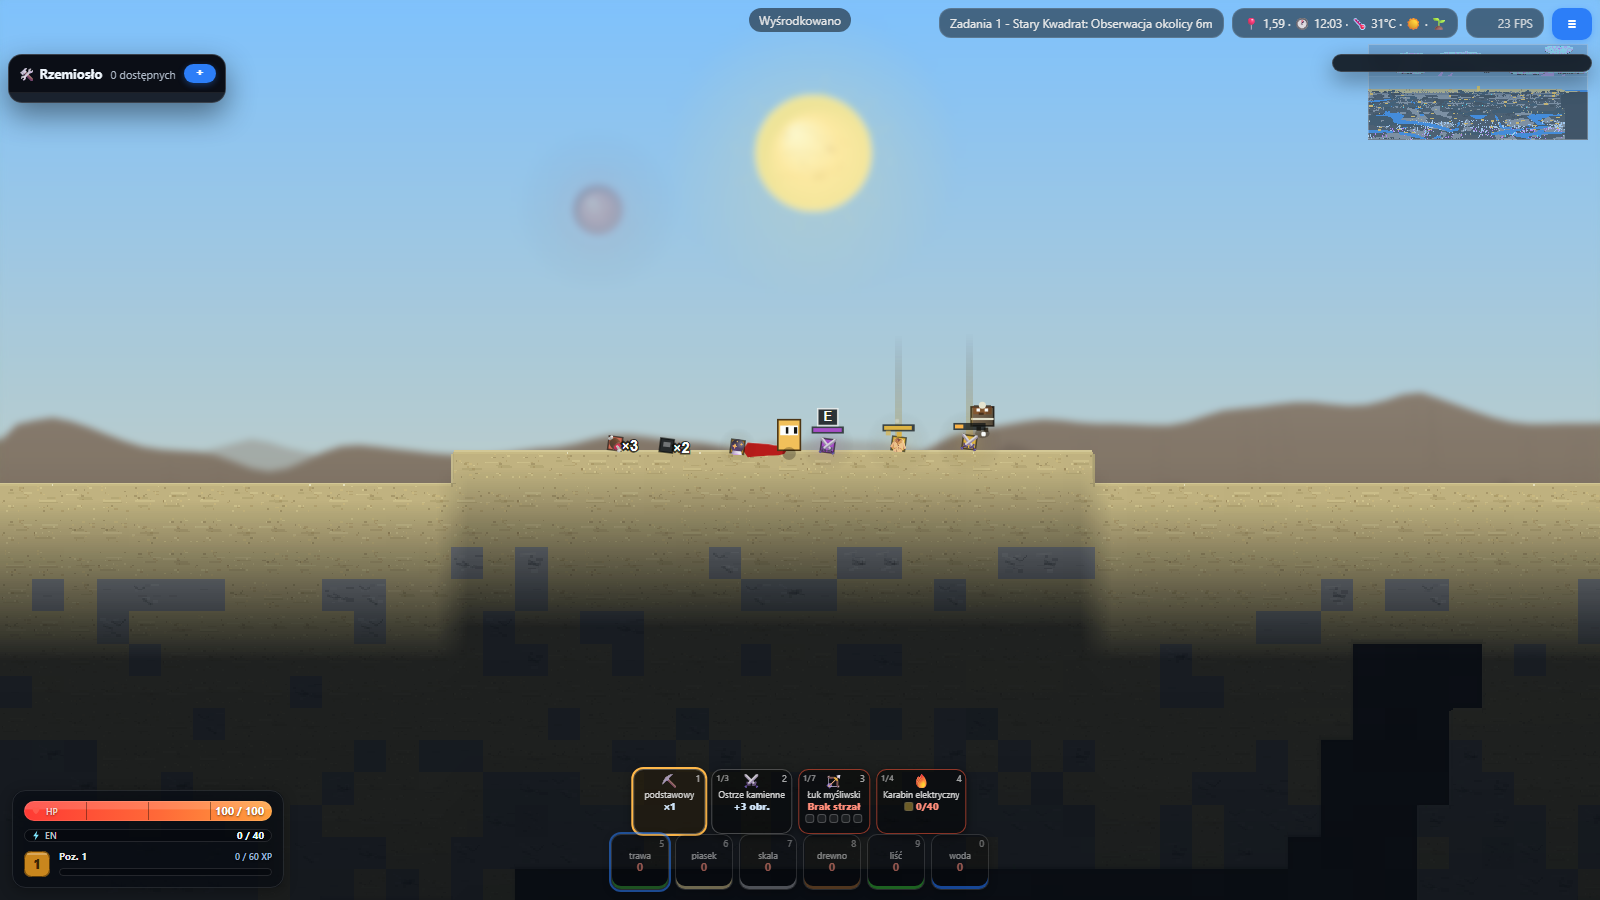
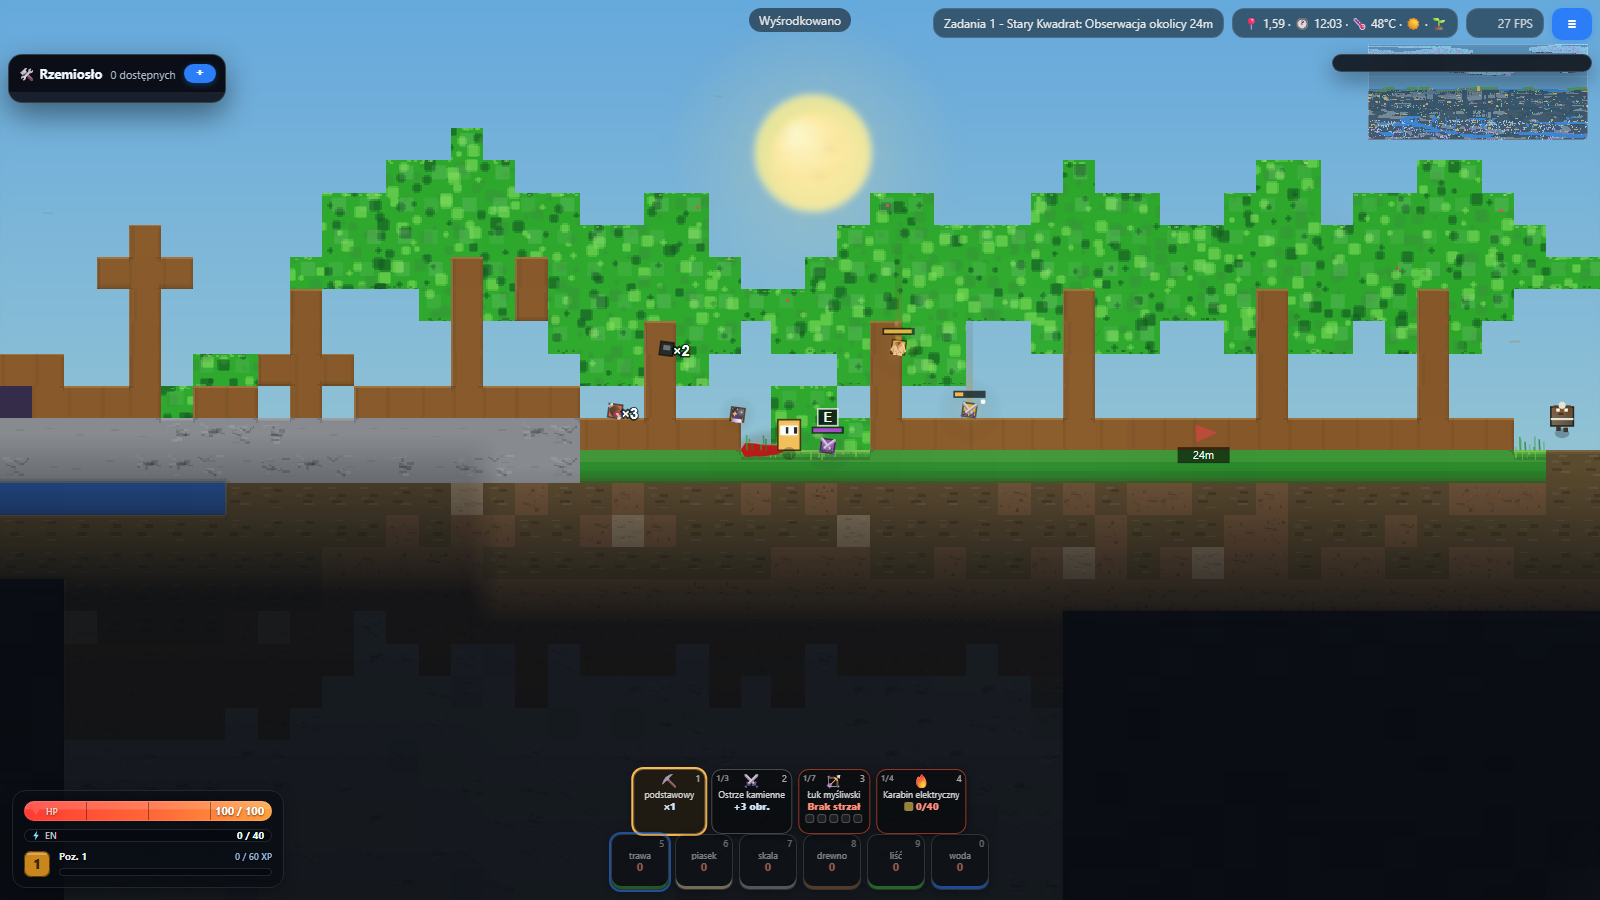
Add cursor loot preview and hold-E inventory gesture
Hovering a ground drop shows a corner card (#dropPreview) with name,
tier, stats and reach hint; LPM picks up exactly the hovered drop
(fog-gated, falls through to mining when out of reach). Short E now
belongs to the world (loot sweep, mech boarding) while holding E for
450ms opens the wardrobe, so loot underfoot cannot lock the player out.

diff --git a/src/main.js b/src/main.js
@@ -7727,7 +7727,7 @@ function buildWeaponTip(k){
 	if(!preview){
 		frag.appendChild(hudTipTitle(c.icon+' '+c.label));
 		frag.appendChild(hudTipNode('tipWarn','Brak broni w skrócie'));
-		frag.appendChild(hudTipNode('tipHint','Zaznacz „Skrót" przy broni w Ekwipunku (E)'));
+		frag.appendChild(hudTipNode('tipHint','Zaznacz „Skrót" przy broni w Ekwipunku (przytrzymaj E)'));
 		return frag;
 	}
 	frag.appendChild(hudTipTitle(c.icon+' '+(preview.name||preview.id), tierColors[preview.tier]||null));
@@ -8933,6 +8933,52 @@ function updateHoverInfo(){
 	hoverInfoEl.textContent=info.label;
 	hoverInfoEl.style.setProperty('--hover-color',info.color);
 	hoverInfoEl.classList.add('show');
+}
+// --- Ground-drop hover preview (PC): corner card for the loot under the cursor ---
+// drops.hoverAt runs once per frame here — it also drives the in-world highlight
+// ring; the card itself rebuilds only when the hovered drop/reach state changes.
+const dropPreviewEl=document.getElementById('dropPreview');
+let dropPreviewKey='';
+function hideDropPreview(){
+	if(dropPreviewKey!==''){ dropPreviewKey=''; dropPreviewEl.classList.remove('show'); dropPreviewEl.textContent=''; }
+}
+function dropPreviewNode(cls,text){ const n=document.createElement('div'); n.className=cls; if(text) n.textContent=text; return n; }
+function updateDropPreview(){
+	if(!dropPreviewEl || !DROPS || !DROPS.hoverAt) return;
+	const touch=document.documentElement.dataset.inputMode==='touch';
+	if(touch || !lastPointer.has || pinch || modalInputOpen()){
+		DROPS.hoverAt(NaN,NaN); // also clears the in-world highlight ring
+		hideDropPreview();
+		return;
+	}
+	const aim=screenToWorld(lastPointer.x,lastPointer.y);
+	const info=DROPS.hoverAt(aim.x,aim.y,player,{visible:worldFxVisible});
+	if(!info){ hideDropPreview(); return; }
+	const key=info.id+':'+(info.qty||1)+':'+(info.inReach?1:0);
+	if(key===dropPreviewKey) return;
+	dropPreviewKey=key;
+	dropPreviewEl.textContent='';
+	const INV=MM.inventory;
+	const tierColor=(INV && INV.TIER_COLORS && INV.TIER_COLORS[info.tier])||'#b07f2c';
+	dropPreviewEl.style.setProperty('--drop-tier',tierColor);
+	if(info.kind==='gear'){
+		const it=info.item||{};
+		const KIND_ICON={cape:'🧥', eyes:'👁️', outfit:'👕', weapon:'⚔️', charm:'🔮'};
+		const KIND_NAME={cape:'peleryna', eyes:'oczy', outfit:'strój', weapon:'broń', charm:'talizman'};
+		const TIER_NAME={common:'zwykły', rare:'rzadki', epic:'epicki'};
+		dropPreviewEl.appendChild(dropPreviewNode('dpTitle',(KIND_ICON[it.kind]||'🎁')+' '+(it.name||it.id||'Przedmiot')));
+		dropPreviewEl.appendChild(dropPreviewNode('dpSub',(KIND_NAME[it.kind]||it.kind||'')+' · '+(TIER_NAME[info.tier]||info.tier)+(INV&&INV.itemScore?' · Moc '+INV.itemScore(it):'')));
+		if(INV && INV.statChips){
+			const chips=document.createElement('div'); chips.className='dpChips';
+			INV.statChips(it).forEach(ch=>{ const c=document.createElement('span'); c.className='dpChip'; c.title=ch.label; c.textContent=ch.icon+' '+ch.text; chips.appendChild(c); });
+			if(chips.childNodes.length) dropPreviewEl.appendChild(chips);
+		}
+		if(it.desc) dropPreviewEl.appendChild(dropPreviewNode('dpDesc',it.desc));
+	} else {
+		dropPreviewEl.appendChild(dropPreviewNode('dpTitle',(info.glyph||'📦')+' '+(info.label||info.res)+(info.qty>1?' ×'+info.qty:'')));
+	}
+	dropPreviewEl.appendChild(dropPreviewNode('dpHint',info.inReach?'LPM podnosi · E zbiera wszystko w zasięgu':'Podejdź bliżej, aby podnieść'));
+	dropPreviewEl.classList.add('show');
 }
 // Kopanie (kierunkowe + wskazywane kursorem)
 const MINE_REACH=3; // Chebyshev tile distance for cursor mining
@@ -10279,6 +10325,13 @@ canvas.addEventListener('pointerdown',e=>{
 	const {tx,ty}=screenToWorldTile(e.clientX,e.clientY);
 	const weaponMode=!isToolMode();
 	if(e.button===0){
+		// Cursor loot grab (PC): clicking the hovered ground drop takes exactly that
+		// one (the corner preview announces it first). 'far' falls through, so the
+		// click still mines/fires toward a drop that's out of reach.
+		if(e.pointerType!=='touch' && DROPS && DROPS.pickupAt){
+			const aim=screenToWorld(e.clientX,e.clientY);
+			if(DROPS.pickupAt(aim.x,aim.y,player,{visible:worldFxVisible})==='picked'){ noteSaveActivity(); return; }
+		}
 		if(assignCompanionHarvestTargetAt(tx,ty)) return;
 		if(weaponMode){
 			weaponPointerId=e.pointerId;
@@ -13709,6 +13762,7 @@ let lastLoopErrAt=0; function loop(ts){
 		drawMs=framePerfNow()-drawT;
 		recordFramePerf(lastFrameMs,simMs,drawMs);
 		updateHoverInfo();
+		updateDropPreview();
 		updateWeaponGauges();
 		if(paused){
 			ctx.save();

diff --git a/src/engine/drops.js b/src/engine/drops.js
@@ -35,6 +35,8 @@ const drops = (function(){
   const RADIUS=0.18;            // collision half-extent in tiles
   const PICKUP_RADIUS=1.75;     // manual E reach
   const AUTO_RADIUS=2.35;       // auto-pickup magnet reach
+  const MOUSE_HIT=0.55;         // cursor-over-drop hit radius (hover preview)
+  const MOUSE_PICKUP_RADIUS=3.0;// click-to-take reach (mirrors cursor mining)
   const COLLECT_DIST=0.55;
   const MAGNET_SPEED=9.5;       // tiles/s toward the hero while vacuumed
   const MERGE_DIST=0.85;        // settled same-resource piles merge
@@ -446,6 +448,42 @@ const drops = (function(){
     return !!nearestInReach(player,PICKUP_RADIUS);
   }
 
+  // --- cursor pickup (PC): hover previews a drop, a click takes exactly it ---
+  // opts.visible gates fog: an undiscovered drop neither previews nor grabs.
+  let hoverDrop=null; // draw() highlights this one (set fresh each frame by hoverAt)
+  function dropAtPoint(wx,wy,opts){
+    if(!finiteNum(wx) || !finiteNum(wy)) return null;
+    const r2=MOUSE_HIT*MOUSE_HIT;
+    let best=null, bestD=Infinity;
+    for(const d of list){
+      const dx=d.x-wx, dy=d.y-wy;
+      const dd=dx*dx+dy*dy;
+      if(dd<=r2 && dd<bestD){ bestD=dd; best=d; }
+    }
+    if(best && opts && typeof opts.visible==='function' && !opts.visible(Math.floor(best.x),Math.floor(best.y))) return null;
+    return best;
+  }
+  // Preview payload for the corner panel: enough to render name/tier/stats
+  // without handing the caller the live entity.
+  function hoverAt(wx,wy,player,opts){
+    const d=dropAtPoint(wx,wy,opts);
+    hoverDrop=d;
+    if(!d) return null;
+    const inReach=!!(player && finiteNum(player.x) && dist2ToPlayer(d,player)<=MOUSE_PICKUP_RADIUS*MOUSE_PICKUP_RADIUS);
+    const info={id:d.id, kind:d.kind, tier:d.tier, x:d.x, y:d.y, qty:d.qty, inReach};
+    if(d.kind==='gear') info.item=Object.assign({},d.item);
+    else { info.res=d.res; info.label=resourceLabel(d.res); info.glyph=d.glyph; info.color=d.color; }
+    return info;
+  }
+  // Selective grab: 'picked' consumed the click, 'far' means walk closer
+  // (the caller lets the click fall through to mining/attacking), null = no drop.
+  function pickupAt(wx,wy,player,opts){
+    const d=dropAtPoint(wx,wy,opts);
+    if(!d) return null;
+    if(!player || !finiteNum(player.x) || dist2ToPlayer(d,player)>MOUSE_PICKUP_RADIUS*MOUSE_PICKUP_RADIUS) return 'far';
+    return collect(d) ? 'picked' : null;
+  }
+
   // --- simulation -----------------------------------------------------------
   function stepPhysics(d,dt,getTile){
     const here=getSafe(getTile,d.x,d.y);
@@ -700,6 +738,12 @@ const drops = (function(){
         ctx.fillRect(-s/2+2,-s/2+2,s-4,3);
       }
       ctx.restore();
+      // cursor hover: a breathing ring says "this one previews in the corner"
+      if(hoverDrop===d){
+        const hr=s*0.95+Math.sin(now*0.008)*1.2;
+        ctx.strokeStyle='rgba(255,255,255,0.85)'; ctx.lineWidth=1.5;
+        ctx.beginPath(); ctx.arc(px,py,hr,0,Math.PI*2); ctx.stroke();
+      }
       // ticking-bomb bar: rare+ gear wears its remaining time on its sleeve
       if(d.kind==='gear' && d.tier!=='common'){
         const frac=Math.max(0,Math.min(1,left/lifetime));
@@ -785,19 +829,19 @@ const drops = (function(){
       }
     }
   }
-  function reset(){ list.length=0; mergeT=0; dry=0; sacrificeDry=0; }
+  function reset(){ list.length=0; mergeT=0; dry=0; sacrificeDry=0; hoverDrop=null; }
 
   const api={
     update,draw,
     spawnResource,spawnGear,rollGearDrop,rollGuardianDrop,
-    pickupNearest,wantsInteractKey,
+    pickupNearest,wantsInteractKey,hoverAt,pickupAt,
     autoPickup,setAutoPickup,
     snapshot,restore,reset,
     metrics:()=>({active:list.length, autoPickup:autoPickup()}),
     _debug:{list, GEAR_LOOT, GUARDIAN_LOOT, dangerFor, rollTier, setRandom:(fn)=>{ rand=typeof fn==='function'?fn:Math.random; }, collect, nearestInReach,
       dryStreak:()=>dry, setDryStreak:(n)=>{ dry=Math.max(0,Math.floor(Number(n)||0)); },
       sacrificeDry:()=>sacrificeDry,
-      config:{MAX_DROPS,DESPAWN_SEC,GEAR_LIFE,GUARDIAN_RELIC_LIFE,PICKUP_RADIUS,AUTO_RADIUS,COLLECT_DIST,MERGE_DIST,SIDEKICK_DROP_CHANCE,SIDEKICK_EPIC_CHANCE,PITY_KILLS,SACRIFICE_BASE,SACRIFICE_STEP,SACRIFICE_MAX}}
+      config:{MAX_DROPS,DESPAWN_SEC,GEAR_LIFE,GUARDIAN_RELIC_LIFE,PICKUP_RADIUS,AUTO_RADIUS,COLLECT_DIST,MERGE_DIST,MOUSE_HIT,MOUSE_PICKUP_RADIUS,SIDEKICK_DROP_CHANCE,SIDEKICK_EPIC_CHANCE,PITY_KILLS,SACRIFICE_BASE,SACRIFICE_STEP,SACRIFICE_MAX}}
   };
   MM.drops=api;
   return api;

diff --git a/src/inventory_ui.js b/src/inventory_ui.js
@@ -1084,6 +1084,22 @@ import './inventory.js';
   if(closeBtn) closeBtn.addEventListener('click',close);
   overlay.addEventListener('click',e=>{ if(e.target===overlay) close(); });
   function isEditableTarget(t){ if(!t || !t.tagName) return false; const tag=t.tagName; return tag==='INPUT'||tag==='TEXTAREA'||tag==='SELECT'||t.isContentEditable; }
+  // Hold-to-open: a short E tap belongs to the world (ground-drop sweep, mech
+  // boarding — see the precedence probes below), but HOLDING E for a beat
+  // always lands in the wardrobe, so loot underfoot can't lock the player out.
+  const E_HOLD_MS=450;
+  let eHoldTimer=null;
+  function cancelEHold(){ if(eHoldTimer!=null){ clearTimeout(eHoldTimer); eHoldTimer=null; } }
+  function armEHold(){
+    cancelEHold();
+    eHoldTimer=setTimeout(()=>{
+      eHoldTimer=null;
+      // fire only into a free screen: another modal (loot inbox, trader…) wins
+      if(!isOpen() && !(MM.modalInput && MM.modalInput.isOpen())) open();
+    },E_HOLD_MS);
+  }
+  window.addEventListener('keyup',e=>{ if(e.key.toLowerCase()==='e') cancelEHold(); });
+  window.addEventListener('blur',cancelEHold);
   window.addEventListener('keydown',e=>{
     if(isOpen()){
       if(e.key==='Escape'){
@@ -1094,7 +1110,8 @@ import './inventory.js';
         } else close();
         e.stopImmediatePropagation(); return;
       }
-      if(!isEditableTarget(e.target) && e.key.toLowerCase()==='e' && !e.ctrlKey && !e.metaKey && !e.altKey){ e.preventDefault(); close(); e.stopImmediatePropagation(); return; }
+      // !repeat: the still-held E that hold-opened the panel must not close it
+      if(!isEditableTarget(e.target) && !e.repeat && e.key.toLowerCase()==='e' && !e.ctrlKey && !e.metaKey && !e.altKey){ e.preventDefault(); close(); e.stopImmediatePropagation(); return; }
       if(!isEditableTarget(e.target) && e.key==='/'){
         e.preventDefault();
         if(searchInput){ searchInput.focus(); searchInput.select(); }
@@ -1111,7 +1128,8 @@ import './inventory.js';
       return;
     }
     if(isEditableTarget(e.target)) return;
-    if(e.key.toLowerCase()==='e' && !e.ctrlKey && !e.metaKey && !e.altKey){
+    if(!e.repeat && e.key.toLowerCase()==='e' && !e.ctrlKey && !e.metaKey && !e.altKey){
+      armEHold(); // holding past the tap window opens the wardrobe regardless
       // Machine context wins the interaction key: riding a mech, standing next
       // to a boardable hull or on a pilot chair routes E to the mech handler
       // (main.js keydown) — the wardrobe only opens away from machines.
@@ -1123,6 +1141,7 @@ import './inventory.js';
         const drops=window.MM && MM.drops;
         if(drops && drops.wantsInteractKey && drops.wantsInteractKey(window.player)) return;
       }catch(err){ /* mech module absent: plain toggle */ }
+      cancelEHold(); // a plain tap opens right away — no need for the hold
       toggle();
     }
   });

diff --git a/index.html b/index.html
@@ -196,6 +196,17 @@
   #hoverInfo{ position:absolute; left:50%; bottom:128px; transform:translateX(-50%); pointer-events:none; opacity:0; transition:opacity .12s ease; display:flex; align-items:center; gap:6px; max-width:min(280px,70vw); padding:4px 9px; border-radius:999px; border:1px solid rgba(255,255,255,.16); background:rgba(4,9,16,.62); color:#f4f8ff; box-shadow:0 2px 10px rgba(0,0,0,.35); backdrop-filter:blur(4px); font-size:11px; line-height:1; white-space:nowrap; overflow:hidden; text-overflow:ellipsis; }
   #hoverInfo::before{ content:""; width:8px; height:8px; flex:none; border-radius:2px; background:var(--hover-color,#9fb8d1); border:1px solid rgba(255,255,255,.35); box-shadow:0 0 8px var(--hover-glow,rgba(159,184,209,.35)); }
   #hoverInfo.show{ opacity:.92; }
+  /* Ground-drop hover preview: corner card built by updateDropPreview (main.js) */
+  /* right of the top bar, left of the minimap (W-232..W-12 @ y 44..140) and the
+     craft tracker (right:8 top:54) — the only top corner no persistent UI claims */
+  #dropPreview{ position:absolute; right:244px; top:46px; pointer-events:none; opacity:0; transition:opacity .12s ease; display:flex; flex-direction:column; gap:4px; width:max-content; max-width:min(250px,60vw); padding:8px 10px; border-radius:10px; border:1px solid var(--drop-tier,rgba(255,255,255,.18)); background:rgba(10,14,22,.92); color:#eef4fb; font-size:11px; line-height:1.35; box-shadow:0 6px 18px rgba(0,0,0,.5); backdrop-filter:blur(6px); }
+  #dropPreview.show{ opacity:1; }
+  #dropPreview .dpTitle{ font-size:12px; font-weight:800; color:var(--drop-tier,#eef4fb); }
+  #dropPreview .dpSub{ font-size:10px; opacity:.85; }
+  #dropPreview .dpChips{ display:flex; flex-wrap:wrap; gap:4px; }
+  #dropPreview .dpChip{ border:1px solid rgba(255,255,255,.14); border-radius:999px; background:rgba(255,255,255,.07); padding:1px 6px; font-size:10px; white-space:nowrap; }
+  #dropPreview .dpDesc{ font-size:10px; font-style:italic; opacity:.75; }
+  #dropPreview .dpHint{ font-size:10px; color:#9fb2c6; }
   #hotbarWrap{ position:absolute; left:50%; bottom:10px; transform:translateX(-50%); display:flex; gap:6px; pointer-events:auto; }
   .hotSlot{ width:50px; height:50px; border:1px solid rgba(255,255,255,.25); background:rgba(0,0,0,.45); border-radius:10px; display:flex; flex-direction:column; align-items:center; justify-content:center; gap:1px; font-size:11px; position:relative; box-shadow:0 2px 8px rgba(0,0,0,.5); padding:2px 3px; }
   .hotSlot.sel{ outline:2px solid #2c7ef8; }
@@ -385,8 +396,8 @@
             <div class="hint">Mnożnik wysokości pojedynczych źdźbeł.</div>
           </div>
           <div class="group" style="flex-direction:column; align-items:stretch; margin-top:6px; border-top:1px solid rgba(255,255,255,.08); padding-top:6px;">
-            <button id="openInv" class="topbtn" role="menuitem" title="Ekwipunek (E)">Ekwipunek…</button>
-            <div class="hint">Sprzęt, bronie, talizmany i surowce (skrót E).</div>
+            <button id="openInv" class="topbtn" role="menuitem" title="Ekwipunek (przytrzymaj E)">Ekwipunek…</button>
+            <div class="hint">Sprzęt, bronie, talizmany i surowce (przytrzymaj E; krótkie E zbiera łupy z ziemi).</div>
           </div>
         </div>
       </div>
@@ -395,7 +406,7 @@
   <!-- topButtons replaced by dropdown menu; old markup removed -->
     <!-- Crafting panel is built dynamically from the RECIPES table in main.js -->
     <div id="craft"><strong>Rzemiosło</strong></div>
-    <div id="help"><b id="helpDiscoveries"></b>Sterowanie: A/D lub ←/→ ruch, W / ↑ / Spacja skok. LPM kopie klikniętą kratkę (zasięg 3) – przytrzymaj i przeciągaj, aby kopać dalej. Przycisk ⛏️ kopie w wybranym kierunku (przytrzymaj = kopanie ciągłe). PPM stawia blok (zasięg 5; wybór 5–9, 0 lub klik w pasek; drugi klik w wybrany slot zmienia typ). Kopanie wody zbiera ją do ekwipunku. Skróty broni: 1 = kilof/budowanie (kolejne wciśnięcia przełączają kilofy po craftingu), 2 = broń biała, 3 = DYSTANSOWE: łuki oraz rzuty z ręki (śnieżki, toksyczne śnieżki, kamienie, balony wodne, granaty gazowe, lepkie bomby) — kolejne wciśnięcia rotują, a klawisz pamięta ostatnio używaną broń, 4 = miotacze (ogień/woda/gaz) — kolejne wciśnięcia przełączają bronie w kategorii; w Ekwipunku przyciskiem „Skrót" wybierasz, które bronie biorą udział w przełączaniu. MATRYCA ŻYWIOŁÓW: MOKRY wróg (pływanie, deszcz, wąż, balon wodny) mocniej przewodzi prąd (a porażenie SKACZE łańcuchem po innych mokrych!) i ZAMARZA W BRYŁĘ od mrozu (np. śnieżek); ogień na zmrożonym = szok termiczny, ogień + trucizna = toksyczny zapłon, na mokrym ogień syczy i gaśnie, a wiązka elektryczna trafiając wodę elektryzuje CAŁĄ taflę. RODZAJE STRZAŁ mają charaktery: drewniane często da się podnieść z powrotem, kamienne ogłuszają, obsydianowe płoną przy pełnym naciągu, diamentowe przeszywają kilku wrogów, irydowe przebijają bloki (pip w pasku broni przypina typ). Trafienia i reakcje żywiołów ładują ULT szybciej; PPM tuż przed pociskiem wroga = PERFEKCYJNA PARADA (odbija pocisk!). Przy naciąganiu łuku strzałka nad głową pokazuje WIATR — znosi strzały. Z cofa zmianę. E otwiera Ekwipunek (sprzęt, bronie, talizmany, surowce), T zwija/rozwija panel Rzemiosła, I skrzynkę łupów, X używa skanera kraterów. Po wybraniu broni (2/3/4) LPM używa jej w kierunku kursora, a PPM odpala naładowany ult: broń biała tnie, łuk strzela strzałami (strzała przelatująca przez ogień płonie!), miotacz ognia podpala stwory i roślinność (ogień rozprzestrzenia się po trawie, drewnie i liściach; woda gasi). Żywioły: ogień gotuje wodę w parę zasilającą chmury, topi kamień w lawę i roztapia śnieg/lód w wodę; lawa PŁYNIE (wolniej niż woda, wyrównuje poziom), parzy i podpala, a osiadła na wolnym powietrzu z czasem zastyga w obsydian; wąż wodny gasi pożary, hartuje lawę w obsydian, rozmiękcza piasek w błoto (błoto spowalnia wszystkich o połowę) i podlewa rośliny; trujący gaz zabija organizmy, a w kontakcie z ogniem lub lawą EKSPLODUJE jak TNT (płonąca strzała też detonuje chmurę). WĘDKOWANIE: wytwórz wędkę (drewno + trawa), stań nad wodą i naciśnij F — gdy spławik drgnie (❗), F podcina; duże ryby szarpią 2–3 razy (F tylko przy ❗, za wczesne szarpnięcie płoszy!). Ryby = zupa rybna (+30 HP), złota rybka = Eliksir głębin; handlarz skupuje połów. Rośliny (słoneczniki, krzewy jagodowe, trzciny, paprocie, kaktusy) kiełkują przy wodzie, piją z sąsiednich kafli wody (czasem wchłaniając cały kafel!), z deszczu i z węża; rosną etapami, usychają bez wody i obumierają ze starości. Klik na dojrzały krzew jagodowy = +6 HP. M (Mapa) odsłania mgłę, N przełącza minimapę, B pauzuje. G (Bóg) natychmiastowe kopanie. C centruje kamerę. H pomoc. Zdobywasz XP i poziomy — punkty umiejętności wydasz w Ekwipunku (Rozwój); osiągnięcia nagradzają XP i skrzyniami. Rzemiosło: kilofy, pochodnie (światło nocą), miecz obsydianowy, talizman, totem odrodzenia (punkt respawnu), eliksiry (życie natychmiast; szybkość/siła to buffy 60 s widoczne przy pasku XP) i Róg przyzwania (wzywa bossa — drogo!). W panelu Rzemiosła gwiazdka ★ przypina ulubione receptury na górze, przycisk 📌 „Śledź" zawiesza licznik składników wybranej receptury na ekranie (powiadomi, gdy wszystko zbierzesz), filtr „Dostępne" pokazuje tylko to, co możesz wytworzyć teraz, a przy brakującym surowcu zobaczysz podpowiedź, gdzie go szukać. Nocą i w głębi czyhają też szkielety-łucznicy (kościane pociski!), a w jaskiniach pełzacze. Jaskinie są CIEMNE — światło dociera tylko z powierzchni, pochodni, lawy i ognia; pełzacze lęgną się wyłącznie w mroku, więc oświetlona pochodniami galeria jest bezpieczna. Podziemia dziedziczą charakter biomu: w śnieżnych krainach jaskinie szronieją lodem i soplami, a w lasach i na bagnach komory jaskiniowe porastają ŚWIECĄCE GRZYBY — zbieraj je (zupa grzybowa +25 HP) albo zostaw jako naturalne latarnie. Co 2–3 dni na powierzchni rozbija kram WĘDROWNY HANDLARZ (szukaj pasiastej markizy i lśniącego 💎): kliknij kram, by kupować pochodnie, strzały, mikstury i epicką skrzynię oraz sprzedawać nadmiar surowców — walutą jest diament. Po śmierci połowa zasobów zostaje w nagrobku — kliknij go, by odzyskać. Nocą wychodzą upiory i nietoperze (o świcie płoną); szukaj też ruin na lądzie i wraków na dnie mórz. Drobne kamienne rumowiska, pieńki filarów lub resztki łuku na powierzchni zdradzają ZAKOPANE RUINY — kop pod nimi! Czasem to ciasna krypta ze skrzynią (albo sarkofag czy zawalisko), czasem piwnice, otwarta studnia lub bliźniacze komory, a czasem głęboka świątynia z krętym szybem, galeriami i jednym z trzech skarbców: obsydianowym sejfem, ołtarzem nad fosą lawy albo zatopionym relikwiarzem. Ruiny przejmują materiał biomu (lodowe ściany, piaskowiec, zalane podłogi). UWAGA: starożytni zostawili PUŁAPKI — uważny gracz wypatrzy lśniącą linkę w korytarzu (strzałki!), pulsujący runiczny krąg na płycie (mina!), zielone smużki nad skrzynią (grobowy gaz!), żar lub kapiącą wodę między blokami (zbrojony zwornik — wykop go, a lawa zaleje skarbiec!) i włosowate pęknięcia podłogi (zapadnia — na dnie lawa… albo bonusowa skrzynia). A jeśli znajdziesz samotny OBSYDIANOWY MONOLIT — kop wytrwale: głęboko przy dnie świata (1% ruin) czeka ZAKOPANE MIASTO — rozświetlona pochodniami kawerna z wieżami, mostem, fosą lawy, ogrodem kryształów i obsydianowym ziguratem kryjącym dwie epickie skrzynie. Na powierzchni trafisz też na obsydianowy OŁTARZ PRZYZWANIA (dwie pochodnie, żarzy się nocą): kliknij go z ofiarą 3 diamentów i 3 obsydianu, a przybędzie GARGANTUICZNY boss — pokonany zostawia stos epickich skrzyń (jeden rytuał na ołtarz dziennie). Mniej więcej co 7 dni gry świat przemierza ZŁOTY SPRINTER (ptak, biegacz albo ryjący kret) — lśniący, błyskawiczny i trudny do ubicia; znika po pół minuty, ale pokonany zostawia epicką skrzynię i diamenty. Co 2–3 dni nadlatuje też UFO: skanuje okolicę i próbuje porwać wiązką coś żywego — zwierzę, CIEBIE, a nawet bossa! Tarcza spodka pochłania ciosy, ale opada, gdy wiązka jest włączona — to moment na atak (łuk!). Zestrzelony zostawia ANTYMATERIĘ (receptura: Mikstura antygrawitacji) i czasem artefakt Obcych; porwany bohater zostaje wywieziony i wyrzucony daleko — chyba że w locie sam zestrzeli spodek. Zielony duch bloku = można postawić, czerwony = nie można. Na ekranie dotykowym szczypnięcie zmienia zoom. Ekwipunek i pasek szybkiego wyboru są zapisywane automatycznie.</div>
+    <div id="help"><b id="helpDiscoveries"></b>Sterowanie: A/D lub ←/→ ruch, W / ↑ / Spacja skok. LPM kopie klikniętą kratkę (zasięg 3) – przytrzymaj i przeciągaj, aby kopać dalej. Przycisk ⛏️ kopie w wybranym kierunku (przytrzymaj = kopanie ciągłe). PPM stawia blok (zasięg 5; wybór 5–9, 0 lub klik w pasek; drugi klik w wybrany slot zmienia typ). Kopanie wody zbiera ją do ekwipunku. Skróty broni: 1 = kilof/budowanie (kolejne wciśnięcia przełączają kilofy po craftingu), 2 = broń biała, 3 = DYSTANSOWE: łuki oraz rzuty z ręki (śnieżki, toksyczne śnieżki, kamienie, balony wodne, granaty gazowe, lepkie bomby) — kolejne wciśnięcia rotują, a klawisz pamięta ostatnio używaną broń, 4 = miotacze (ogień/woda/gaz) — kolejne wciśnięcia przełączają bronie w kategorii; w Ekwipunku przyciskiem „Skrót" wybierasz, które bronie biorą udział w przełączaniu. MATRYCA ŻYWIOŁÓW: MOKRY wróg (pływanie, deszcz, wąż, balon wodny) mocniej przewodzi prąd (a porażenie SKACZE łańcuchem po innych mokrych!) i ZAMARZA W BRYŁĘ od mrozu (np. śnieżek); ogień na zmrożonym = szok termiczny, ogień + trucizna = toksyczny zapłon, na mokrym ogień syczy i gaśnie, a wiązka elektryczna trafiając wodę elektryzuje CAŁĄ taflę. RODZAJE STRZAŁ mają charaktery: drewniane często da się podnieść z powrotem, kamienne ogłuszają, obsydianowe płoną przy pełnym naciągu, diamentowe przeszywają kilku wrogów, irydowe przebijają bloki (pip w pasku broni przypina typ). Trafienia i reakcje żywiołów ładują ULT szybciej; PPM tuż przed pociskiem wroga = PERFEKCYJNA PARADA (odbija pocisk!). Przy naciąganiu łuku strzałka nad głową pokazuje WIATR — znosi strzały. Z cofa zmianę. PRZYTRZYMAJ E, aby otworzyć Ekwipunek (sprzęt, bronie, talizmany, surowce) — krótkie E zbiera leżące łupy w zasięgu i obsługuje mecha. Najedź kursorem na leżący przedmiot: w lewym górnym rogu pojawi się podgląd (nazwa, rzadkość, statystyki), a LPM podnosi dokładnie ten jeden (zasięg 3). T zwija/rozwija panel Rzemiosła, I skrzynkę łupów, X używa skanera kraterów. Po wybraniu broni (2/3/4) LPM używa jej w kierunku kursora, a PPM odpala naładowany ult: broń biała tnie, łuk strzela strzałami (strzała przelatująca przez ogień płonie!), miotacz ognia podpala stwory i roślinność (ogień rozprzestrzenia się po trawie, drewnie i liściach; woda gasi). Żywioły: ogień gotuje wodę w parę zasilającą chmury, topi kamień w lawę i roztapia śnieg/lód w wodę; lawa PŁYNIE (wolniej niż woda, wyrównuje poziom), parzy i podpala, a osiadła na wolnym powietrzu z czasem zastyga w obsydian; wąż wodny gasi pożary, hartuje lawę w obsydian, rozmiękcza piasek w błoto (błoto spowalnia wszystkich o połowę) i podlewa rośliny; trujący gaz zabija organizmy, a w kontakcie z ogniem lub lawą EKSPLODUJE jak TNT (płonąca strzała też detonuje chmurę). WĘDKOWANIE: wytwórz wędkę (drewno + trawa), stań nad wodą i naciśnij F — gdy spławik drgnie (❗), F podcina; duże ryby szarpią 2–3 razy (F tylko przy ❗, za wczesne szarpnięcie płoszy!). Ryby = zupa rybna (+30 HP), złota rybka = Eliksir głębin; handlarz skupuje połów. Rośliny (słoneczniki, krzewy jagodowe, trzciny, paprocie, kaktusy) kiełkują przy wodzie, piją z sąsiednich kafli wody (czasem wchłaniając cały kafel!), z deszczu i z węża; rosną etapami, usychają bez wody i obumierają ze starości. Klik na dojrzały krzew jagodowy = +6 HP. M (Mapa) odsłania mgłę, N przełącza minimapę, B pauzuje. G (Bóg) natychmiastowe kopanie. C centruje kamerę. H pomoc. Zdobywasz XP i poziomy — punkty umiejętności wydasz w Ekwipunku (Rozwój); osiągnięcia nagradzają XP i skrzyniami. Rzemiosło: kilofy, pochodnie (światło nocą), miecz obsydianowy, talizman, totem odrodzenia (punkt respawnu), eliksiry (życie natychmiast; szybkość/siła to buffy 60 s widoczne przy pasku XP) i Róg przyzwania (wzywa bossa — drogo!). W panelu Rzemiosła gwiazdka ★ przypina ulubione receptury na górze, przycisk 📌 „Śledź" zawiesza licznik składników wybranej receptury na ekranie (powiadomi, gdy wszystko zbierzesz), filtr „Dostępne" pokazuje tylko to, co możesz wytworzyć teraz, a przy brakującym surowcu zobaczysz podpowiedź, gdzie go szukać. Nocą i w głębi czyhają też szkielety-łucznicy (kościane pociski!), a w jaskiniach pełzacze. Jaskinie są CIEMNE — światło dociera tylko z powierzchni, pochodni, lawy i ognia; pełzacze lęgną się wyłącznie w mroku, więc oświetlona pochodniami galeria jest bezpieczna. Podziemia dziedziczą charakter biomu: w śnieżnych krainach jaskinie szronieją lodem i soplami, a w lasach i na bagnach komory jaskiniowe porastają ŚWIECĄCE GRZYBY — zbieraj je (zupa grzybowa +25 HP) albo zostaw jako naturalne latarnie. Co 2–3 dni na powierzchni rozbija kram WĘDROWNY HANDLARZ (szukaj pasiastej markizy i lśniącego 💎): kliknij kram, by kupować pochodnie, strzały, mikstury i epicką skrzynię oraz sprzedawać nadmiar surowców — walutą jest diament. Po śmierci połowa zasobów zostaje w nagrobku — kliknij go, by odzyskać. Nocą wychodzą upiory i nietoperze (o świcie płoną); szukaj też ruin na lądzie i wraków na dnie mórz. Drobne kamienne rumowiska, pieńki filarów lub resztki łuku na powierzchni zdradzają ZAKOPANE RUINY — kop pod nimi! Czasem to ciasna krypta ze skrzynią (albo sarkofag czy zawalisko), czasem piwnice, otwarta studnia lub bliźniacze komory, a czasem głęboka świątynia z krętym szybem, galeriami i jednym z trzech skarbców: obsydianowym sejfem, ołtarzem nad fosą lawy albo zatopionym relikwiarzem. Ruiny przejmują materiał biomu (lodowe ściany, piaskowiec, zalane podłogi). UWAGA: starożytni zostawili PUŁAPKI — uważny gracz wypatrzy lśniącą linkę w korytarzu (strzałki!), pulsujący runiczny krąg na płycie (mina!), zielone smużki nad skrzynią (grobowy gaz!), żar lub kapiącą wodę między blokami (zbrojony zwornik — wykop go, a lawa zaleje skarbiec!) i włosowate pęknięcia podłogi (zapadnia — na dnie lawa… albo bonusowa skrzynia). A jeśli znajdziesz samotny OBSYDIANOWY MONOLIT — kop wytrwale: głęboko przy dnie świata (1% ruin) czeka ZAKOPANE MIASTO — rozświetlona pochodniami kawerna z wieżami, mostem, fosą lawy, ogrodem kryształów i obsydianowym ziguratem kryjącym dwie epickie skrzynie. Na powierzchni trafisz też na obsydianowy OŁTARZ PRZYZWANIA (dwie pochodnie, żarzy się nocą): kliknij go z ofiarą 3 diamentów i 3 obsydianu, a przybędzie GARGANTUICZNY boss — pokonany zostawia stos epickich skrzyń (jeden rytuał na ołtarz dziennie). Mniej więcej co 7 dni gry świat przemierza ZŁOTY SPRINTER (ptak, biegacz albo ryjący kret) — lśniący, błyskawiczny i trudny do ubicia; znika po pół minuty, ale pokonany zostawia epicką skrzynię i diamenty. Co 2–3 dni nadlatuje też UFO: skanuje okolicę i próbuje porwać wiązką coś żywego — zwierzę, CIEBIE, a nawet bossa! Tarcza spodka pochłania ciosy, ale opada, gdy wiązka jest włączona — to moment na atak (łuk!). Zestrzelony zostawia ANTYMATERIĘ (receptura: Mikstura antygrawitacji) i czasem artefakt Obcych; porwany bohater zostaje wywieziony i wyrzucony daleko — chyba że w locie sam zestrzeli spodek. Zielony duch bloku = można postawić, czerwony = nie można. Na ekranie dotykowym szczypnięcie zmienia zoom. Ekwipunek i pasek szybkiego wyboru są zapisywane automatycznie.</div>
     <div id="controls" class="touchUi">
       <div class="pad" id="pad">
         <div></div><div data-key="ArrowUp" class="btn">↑</div><div></div>
@@ -419,6 +430,7 @@
     <button id="radarBtn" class="touchUi" title="Radar diamentów (10×10)">💎</button>
     <div id="messages"></div>
     <div id="hoverInfo" aria-hidden="true"></div>
+    <div id="dropPreview" aria-live="polite"></div>
     <div id="weaponBar" role="toolbar" aria-label="Skróty broni (klawisze 1–4)">
       <div class="wepSlot" data-wkey="1"><span class="key">1</span><span class="wcyc"></span><span class="wicon">⛏️</span><span class="wname"></span><span class="wsub"></span><span class="wgauge"><i></i></span></div>
       <div class="wepSlot" data-wkey="2"><span class="key">2</span><span class="wcyc"></span><span class="wicon">⚔️</span><span class="wname"></span><span class="wsub"></span><span class="wgauge"><i></i></span></div>